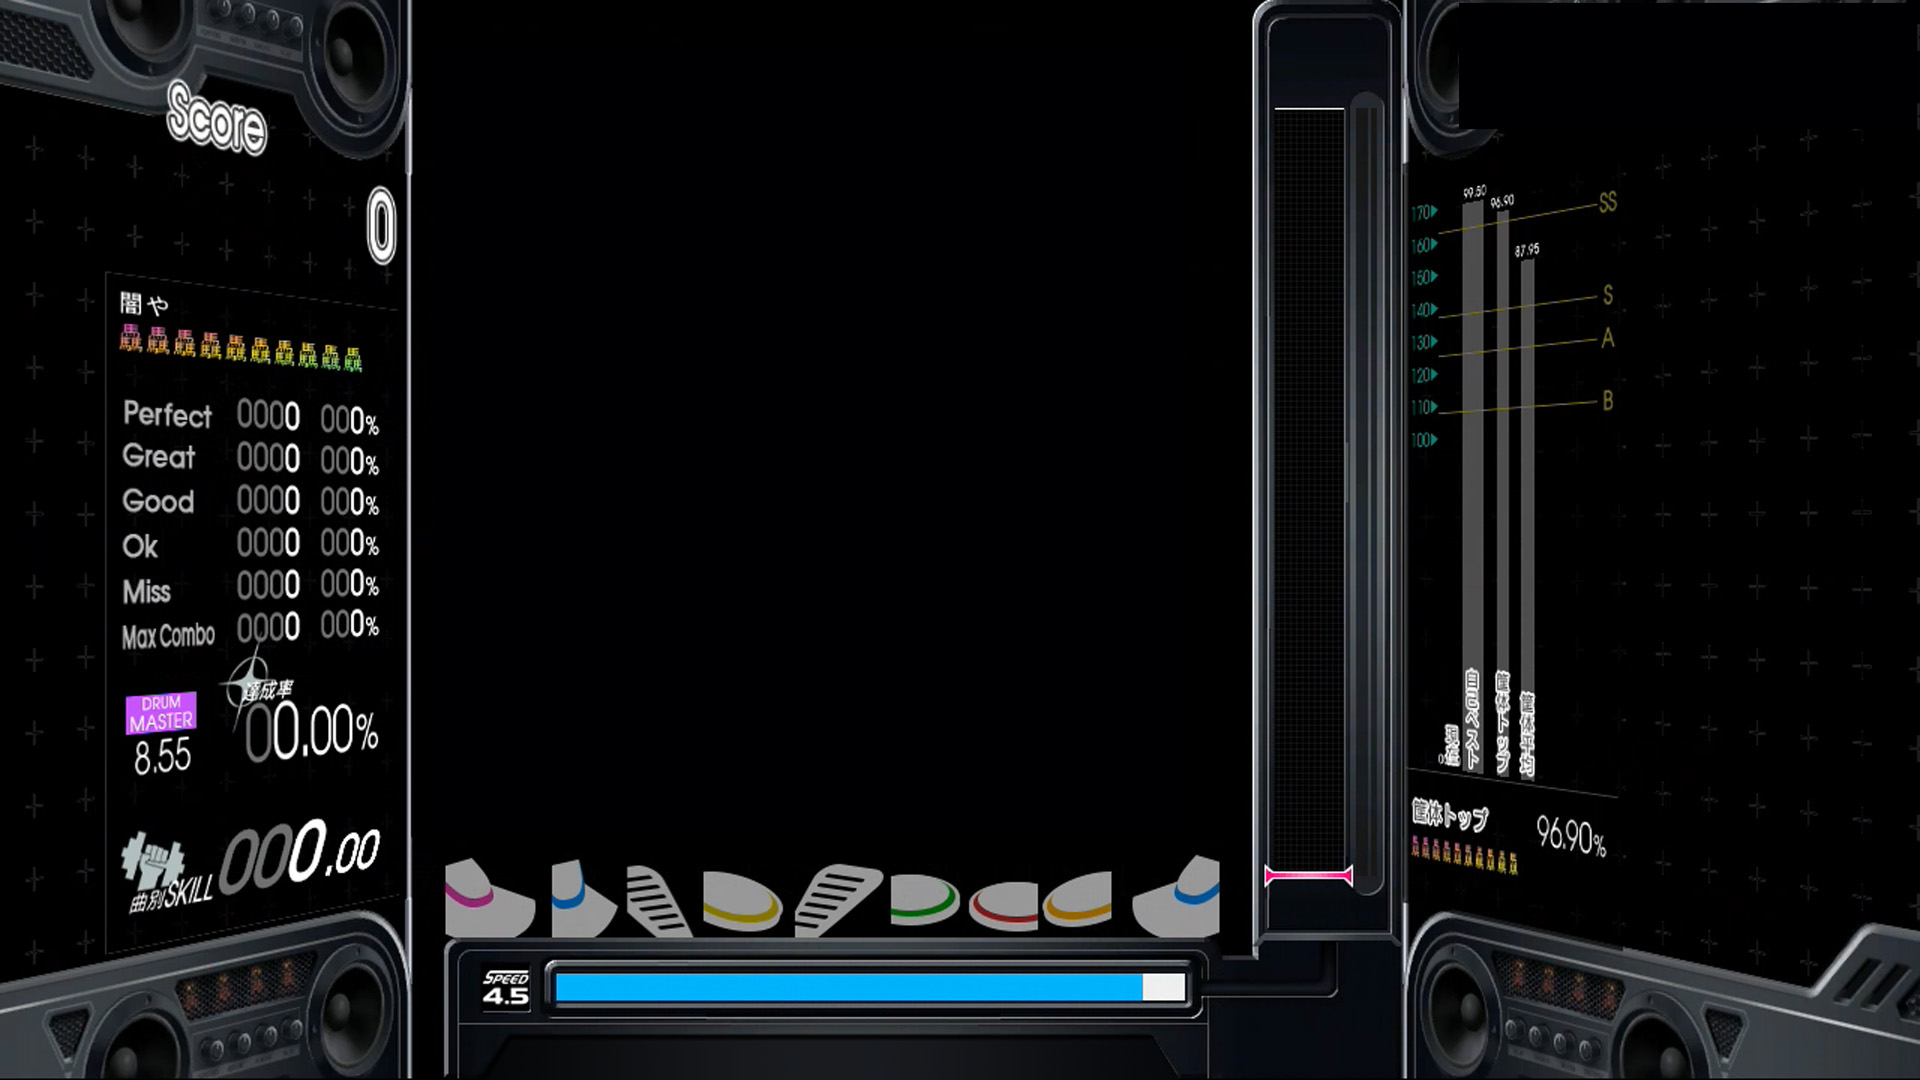
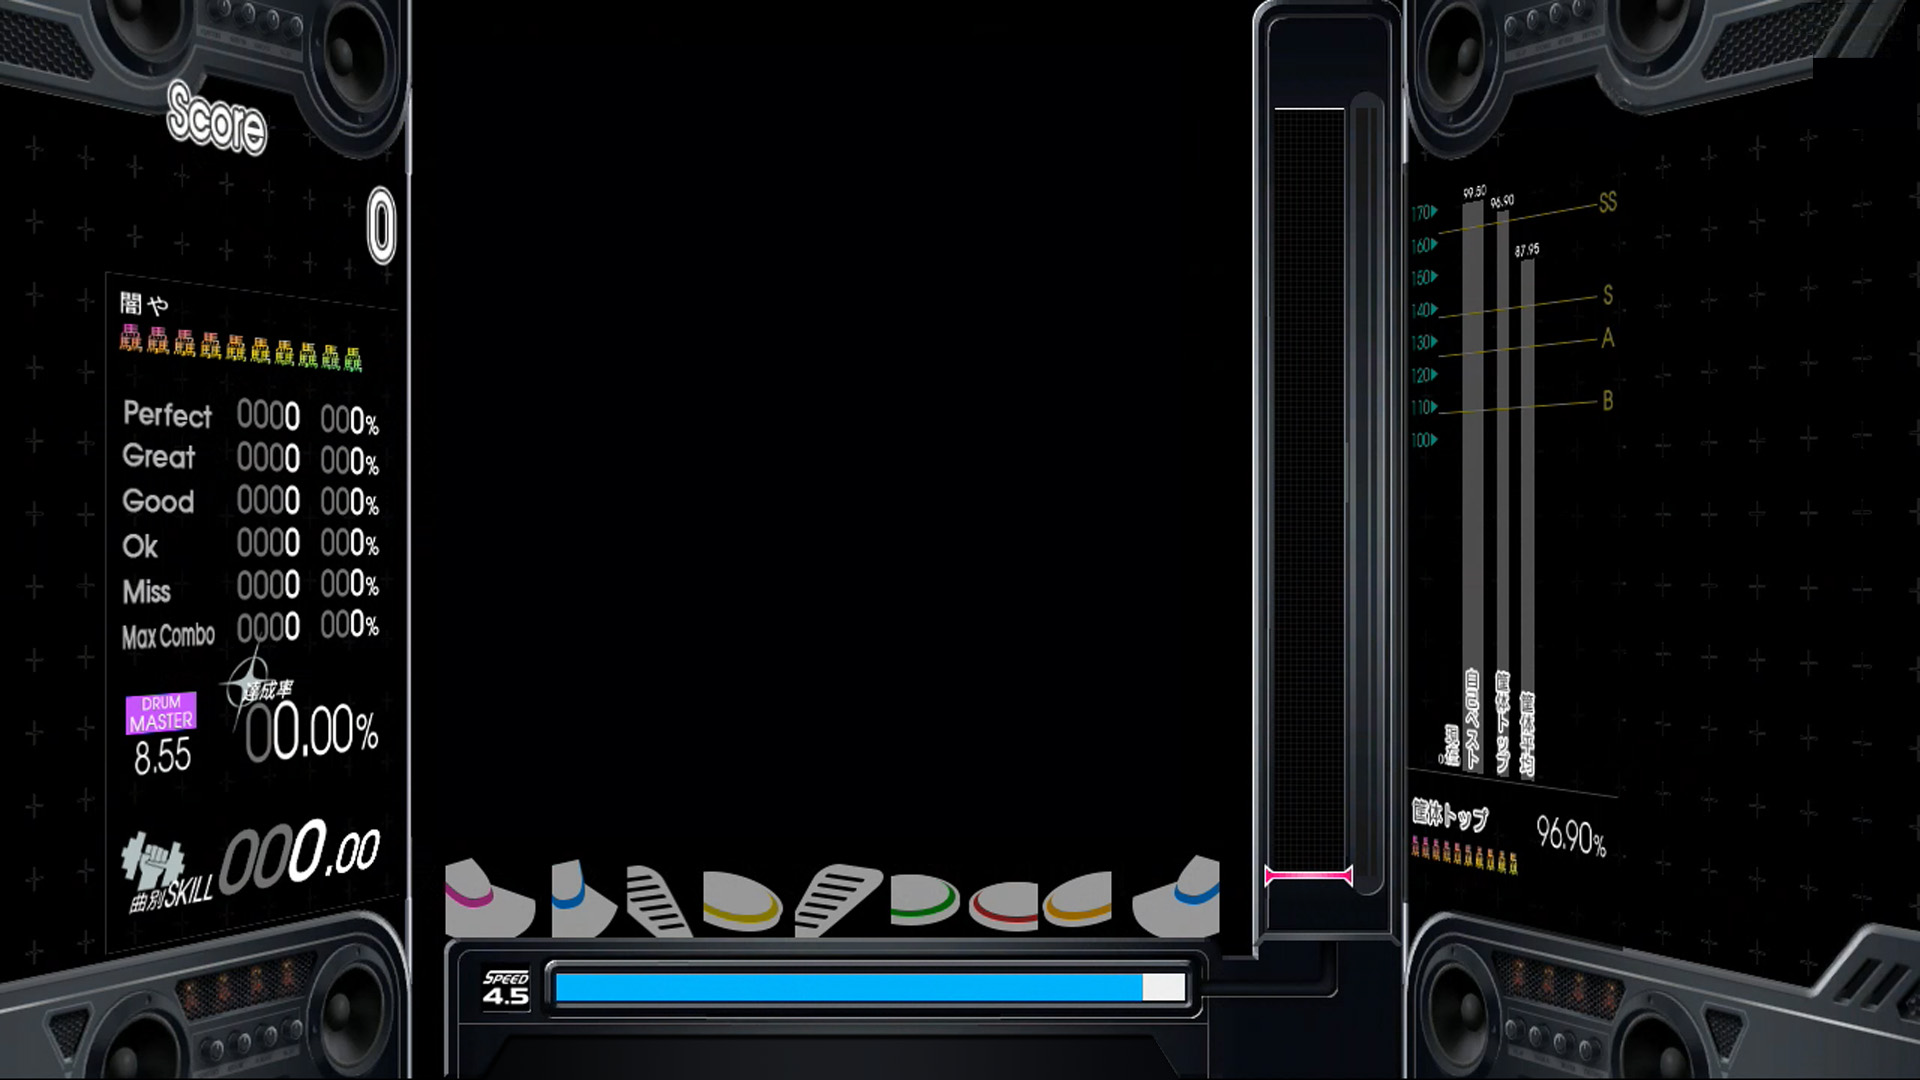
演奏画面の曲名パネルを実装。

Changed region(s): [[0.75, 0.0, 1.0, 0.1222]]

diff --git a/DTXmatixx/ステージ/演奏/曲名パネル.cs b/DTXmatixx/ステージ/演奏/曲名パネル.cs
@@ -1,0 +1,63 @@
+using System;
+using System.Collections.Generic;
+using System.Diagnostics;
+using System.Linq;
+using SharpDX;
+using FDK;
+using FDK.メディア;
+using DTXmatixx.曲;
+
+namespace DTXmatixx.ステージ.演奏
+{
+	class 曲名パネル : Activity
+	{
+		public 曲名パネル()
+		{
+			this.子リスト.Add( this._パネル = new 画像( @"$(System)images\演奏画面_曲名パネル.png" ) );
+		}
+
+		protected override void On活性化( グラフィックデバイス gd )
+		{
+			using( Log.Block( FDKUtilities.現在のメソッド名 ) )
+			{
+			}
+		}
+		protected override void On非活性化( グラフィックデバイス gd )
+		{
+			using( Log.Block( FDKUtilities.現在のメソッド名 ) )
+			{
+			}
+		}
+
+		public void 描画する( グラフィックデバイス gd )
+		{
+			var 選択曲 = App.曲ツリー.フォーカスノード as MusicNode;
+			Debug.Assert( null != 選択曲 );
+
+			var サムネイル画像 = 選択曲.ノード画像 ?? Node.既定のノード画像;
+			Debug.Assert( null != サムネイル画像 );
+
+			this._パネル.描画する( gd, 1458f, 3f );
+
+			// テクスチャは画面中央が (0,0,0) で、Xは右がプラス方向, Yは上がプラス方向, Zは奥がプラス方向+。
+
+			var 画面左上dpx = new Vector3(  // 3D視点で見る画面左上の座標。
+				-gd.設計画面サイズ.Width / 2f,
+				+gd.設計画面サイズ.Height / 2f,
+				0f );
+
+			var 変換行列 =
+				Matrix.Scaling( this._サムネイル画像表示サイズdpx ) *
+				Matrix.Translation(
+					画面左上dpx.X + this._サムネイル画像表示位置dpx.X + this._サムネイル画像表示サイズdpx.X / 2f,
+					画面左上dpx.Y - this._サムネイル画像表示位置dpx.Y - this._サムネイル画像表示サイズdpx.Y / 2f,
+					0f );
+
+			サムネイル画像.描画する( gd, 変換行列 );
+		}
+
+		private 画像 _パネル = null;
+		private readonly Vector3 _サムネイル画像表示位置dpx = new Vector3( 1477f, 19f, 0f );
+		private readonly Vector3 _サムネイル画像表示サイズdpx = new Vector3( 91f, 91f, 0f );
+	}
+}

diff --git a/DTXmatixx/ステージ/演奏/演奏ステージ.cs b/DTXmatixx/ステージ/演奏/演奏ステージ.cs
@@ -35,6 +35,7 @@ namespace DTXmatixx.ステージ.演奏
 		public 演奏ステージ()
 		{
 			this.子リスト.Add( this._背景画像 = new 画像( @"$(System)images\演奏画面.jpg" ) );
+			this.子リスト.Add( this._曲名パネル = new 曲名パネル() );
 		}
 
 		protected override void On活性化( グラフィックデバイス gd )
@@ -67,11 +68,14 @@ namespace DTXmatixx.ステージ.演奏
 			}
 
 			this._背景画像.描画する( gd, 0f, 0f );
-			this._キャプチャ画面を描画する( gd, ( 1.0f - this._フェードインカウンタ.現在値の割合 ) );
+			this._曲名パネル.描画する( gd );
 
 			switch( this.現在のフェーズ )
 			{
 				case フェーズ.フェードイン:
+					this._キャプチャ画面を描画する( gd, ( 1.0f - this._フェードインカウンタ.現在値の割合 ) );
+					if( this._フェードインカウンタ.終了値に達した )
+						this.現在のフェーズ = フェーズ.表示;
 					break;
 
 				case フェーズ.表示:
@@ -94,6 +98,7 @@ namespace DTXmatixx.ステージ.演奏
 
 		private bool _初めての進行描画 = true;
 		private 画像 _背景画像 = null;
+		private 曲名パネル _曲名パネル = null;
 		/// <summary>
 		///		読み込み画面: 0 ～ 1: 演奏画面
 		/// </summary>

diff --git a/DTXmatixx/ステージ/選曲/選曲ステージ.cs b/DTXmatixx/ステージ/選曲/選曲ステージ.cs
@@ -65,7 +65,6 @@ namespace DTXmatixx.ステージ.選曲
 				FDKUtilities.解放する( ref this._左に伸びる導線の長さdpx );
 				FDKUtilities.解放する( ref this._プレビュー枠の長さdpx );
 				FDKUtilities.解放する( ref this._導線のストーリーボード );
-
 				FDKUtilities.解放する( ref this._白 );
 				FDKUtilities.解放する( ref this._黒 );
 				FDKUtilities.解放する( ref this._黒透過 );
